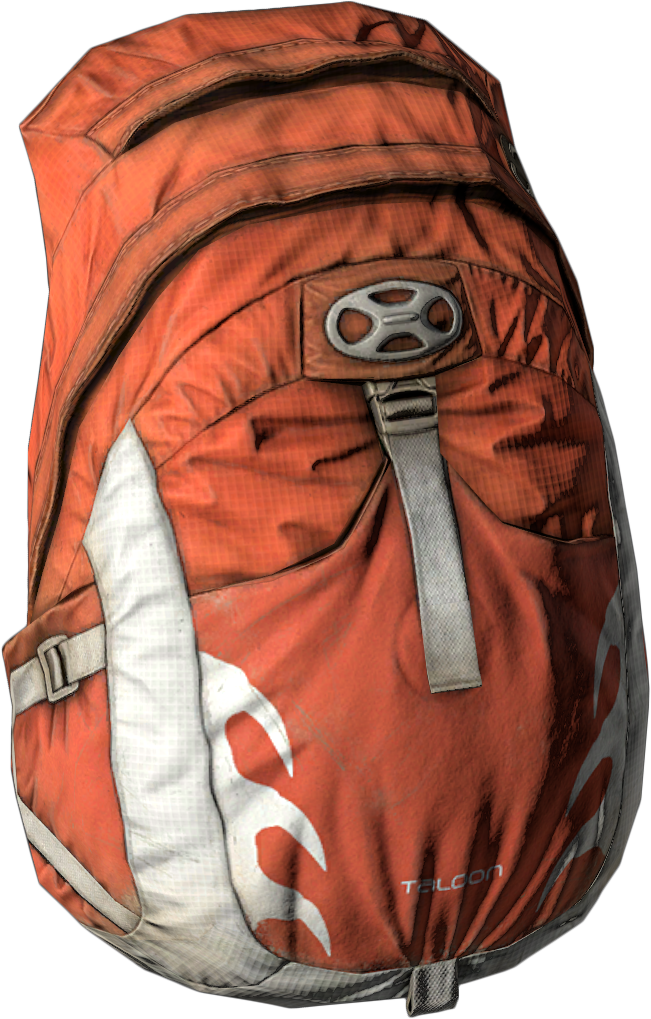
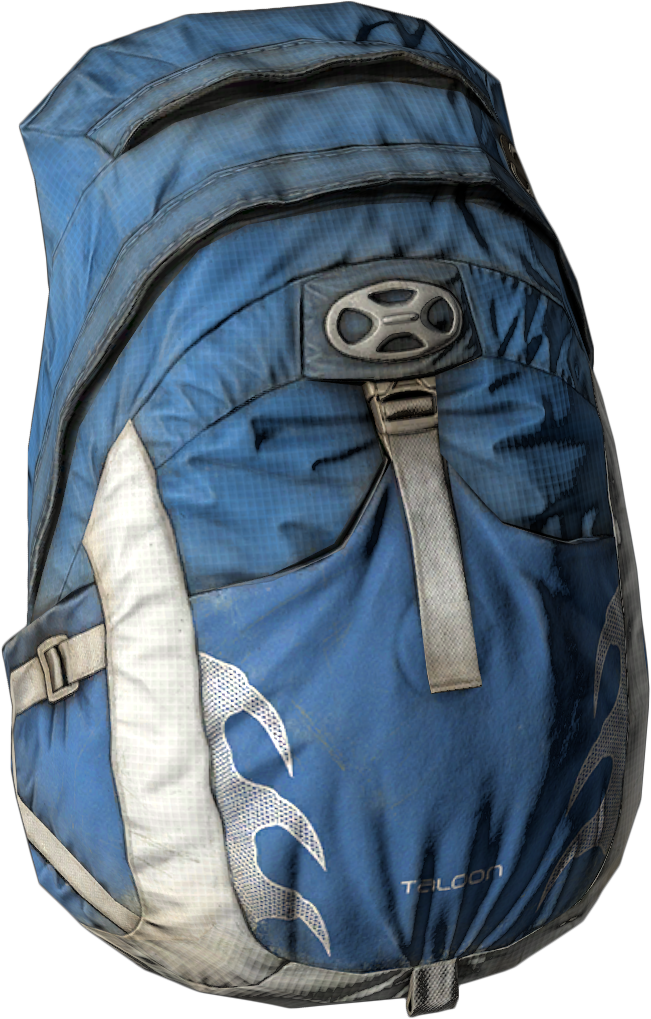
[inventory] Заменены иконки верхней одежды, рюкзака, шапки. [admin] /stats

diff --git a/client_files/admin/index.js b/client_files/admin/index.js
@@ -23,7 +23,52 @@ mp.events.add({
             scale: [0.37, 0.37],
             outline: true
         });
+    },
+    'admin.stats.show': (data) => {
+        data = JSON.parse(data);
+        mp.callCEFV(`modal.modals["admin_stats"].header = '${data.name}'`);
+        let content = '';
+        let stats = {
+            'Основное': {
+                'Пол': `${data.gender ? 'женский' : 'мужской'}`,
+                'Наличные': `$${data.cash}`,
+                'Банк. счет': `$${data.bank}`,
+                'Отыграно минут': `${data.minutes}`,
+                'Номер телефона': `${data.phone ? data.phone : 'нет'}`,
+                'Сытость': `${data.satiety}`,
+                'Жажда': `${data.thirst}`,
+                'Законопослушность': `${data.law}`,
+                'Преступлений': `${data.crimes}`,
+                'Розыск': `${data.wanted}`,
+                'Причина розыска': `${data.wantedCause ? data.wantedCause : 'нет'}`,
+            },
+            'Лицензии': {
+                'Легковые т/с': `${data.carLicense ? 'есть' : 'нет'}`,
+                'Пассажирские т/с': `${data.passengerLicense ? 'есть' : 'нет'}`,
+                'Мотоциклы': `${data.bikeLicense ? 'есть' : 'нет'}`,
+                'Грузовые т/с': `${data.truckLicense ? 'есть' : 'нет'}`,
+                'Воздушные т/с': `${data.airLicense ? 'есть' : 'нет'}`,
+                'Водные т/с': `${data.boatLicense ? 'есть' : 'нет'}`,
+                'Оружие': `${data.gunLicenseDate ? `до ${data.gunLicenseDate}` : 'нет'}`,
+            },
+            'Наказания': {
+                'Количество варнов': `${data.warnNumber}`,
+                'Дата окончания варна': `${data.warnDate ? data.warnDate : 'нет'}`,
+                'Время ареста': `${data.arrestTime}`,
+                'Тип ареста': `${data.arrestType}`,
+            },
+        }
 
+        for (let category in stats) {
+            content += `<h3>${category}</h3>`;
+            let section = stats[category];
+            for (let key in section) {
+                content += `${key}: <b>${section[key]}</b><br>`;
+            }
+        }
+       
+        mp.callCEFV(`modal.modals["admin_stats"].content = '${content}'`);
+        mp.callCEFV('modal.showByName("admin_stats")')
     }
 });
 

diff --git a/packages/admin/commands.js b/packages/admin/commands.js
@@ -866,4 +866,17 @@ module.exports = {
             }
         }
     },
+    "/stats": {
+        description: "Статистика персонажа",
+        access: 5,
+        args: "[ID]:n",
+        handler: (player, args, out) => {
+            let target = mp.players.at(args[0]);
+            if (!target) return out.error('Игрок не найден', player);
+
+            let data = target.character.dataValues;
+            data.phone = target.phone ? target.phone.number : null;
+            player.call('admin.stats.show', [JSON.stringify(data)]);
+        }
+    },
 }

diff --git a/client_files/browser/js/modal.js b/client_files/browser/js/modal.js
@@ -189,6 +189,10 @@ var modal = new Vue({
                     </p>
                 `
             },
+            "admin_stats": {
+                header: "",
+                content: ``
+            },
         },
         modal: null,
     },
